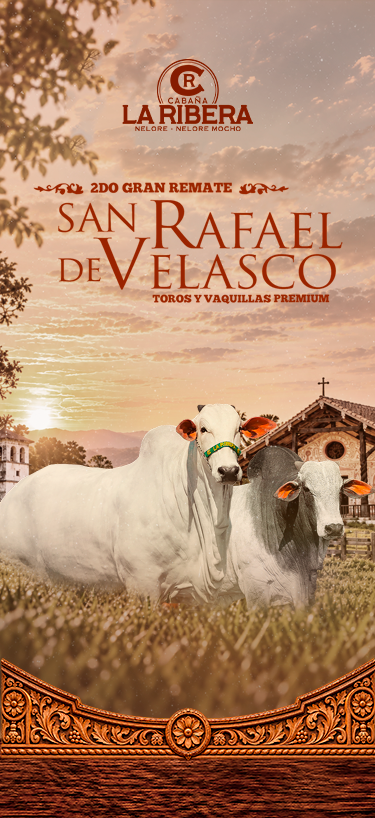
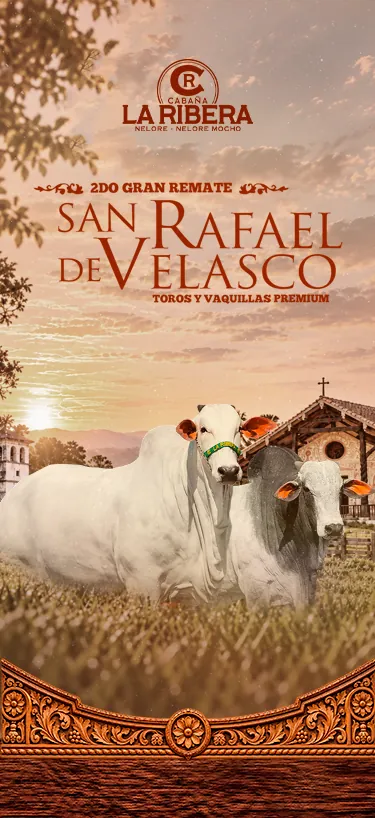
Pulido: imágenes optimizadas, vista previa para compartir, cabeceras de seguridad, nginx sin root y cabecera móvil

diff --git a/index.html b/index.html
@@ -7,6 +7,18 @@
   <meta name="description" content="Catálogo digital del 2do Gran Remate San Rafael de Velasco — Toros y Vaquillas Premium. Cabaña La Ribera, Nelore y Nelore Mocho.">
   <meta name="theme-color" content="#1a0f08">
   <link rel="icon" href="assets/logo-header.webp" type="image/webp">
+  <link rel="apple-touch-icon" href="assets/apple-touch-icon.png">
+  <link rel="canonical" href="https://cabanalaribera.cerice360.com/">
+  <meta property="og:type" content="website">
+  <meta property="og:locale" content="es_BO">
+  <meta property="og:site_name" content="Cabaña La Ribera">
+  <meta property="og:title" content="Catálogo · 2do Gran Remate San Rafael de Velasco">
+  <meta property="og:description" content="Toros y Vaquillas Premium Nelore · Nelore Mocho. 38 lotes con video. Cabaña La Ribera.">
+  <meta property="og:url" content="https://cabanalaribera.cerice360.com/">
+  <meta property="og:image" content="https://cabanalaribera.cerice360.com/assets/og-catalogo.jpg">
+  <meta property="og:image:width" content="1200">
+  <meta property="og:image:height" content="630">
+  <meta name="twitter:card" content="summary_large_image">
   <link rel="preconnect" href="https://fonts.googleapis.com">
   <link rel="preconnect" href="https://fonts.gstatic.com" crossorigin>
   <link href="https://fonts.googleapis.com/css2?family=Cinzel:wght@500;700;800;900&family=Cormorant+Garamond:ital,wght@0,500;0,700;1,500;1,600&family=Montserrat:wght@400;500;600;700;800&display=swap" rel="stylesheet">
@@ -52,7 +64,7 @@
     <button class="btn btn--icon" id="btnNext" type="button" aria-label="Página siguiente">›</button>
   </nav>
 
-  <noscript><p style="color:#fff;padding:2rem">Este catálogo necesita JavaScript.</p></noscript>
+  <noscript><p class="noscript">Este catálogo necesita JavaScript.</p></noscript>
   <script src="data/catalog.js"></script>
   <script src="js/seals.js"></script>
   <script src="js/book.js"></script>

diff --git a/css/style.css b/css/style.css
@@ -472,3 +472,11 @@ body::before { content: ""; position: fixed; inset: -25%; pointer-events: none; 
 .is-visible .ct-list li:nth-child(2) { animation-delay: .52s; }
 .is-visible .ct-list li:nth-child(3) { animation-delay: .64s; }
 .is-visible .social a { animation: fadeUp .8s 1.1s var(--lux) both; }
+
+/* Celular angosto: el botón de sonido queda solo con el ícono para no chocar con el nombre */
+@media (max-width: 480px) {
+  .btn--sound span { display: none; }
+  .btn--sound { padding: 0; width: 42px; height: 42px; justify-content: center; border-radius: 50%; }
+  .brand-txt strong { font-size: 13px; }
+}
+.noscript { color: #fff; padding: 2rem; }

diff --git a/README.md b/README.md
@@ -93,7 +93,7 @@ El repo incluye `Dockerfile` (nginx, puerto interno **8080**) y `nginx.conf`.
 
 ```bash
 docker build -t catalogo-la-ribera .
-docker run -p 8096:8080 catalogo-la-ribera
+docker run -p 8097:8080 catalogo-la-ribera
 ```
 
 En Coolify: *New Resource → Public Repository* con este repo, rama `main`, *Build Pack: Dockerfile*, puerto expuesto `8080`.
